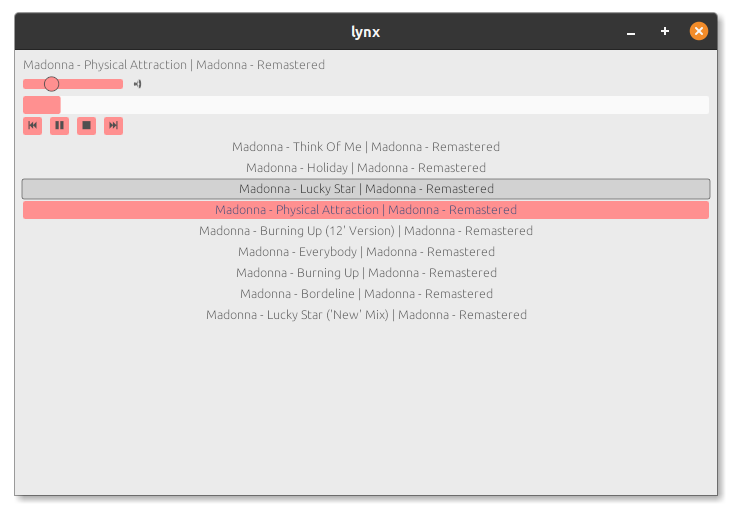
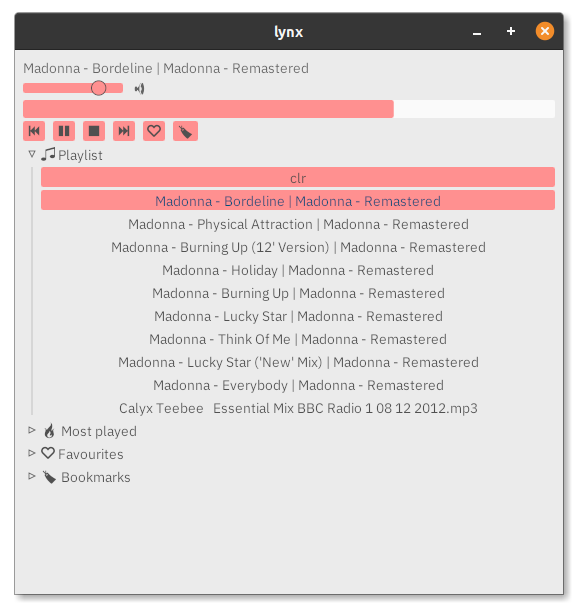
bookmarks now auto-play song if different

Changed region(s): [[0.0, 0.0, 0.9897, 0.9961]]

diff --git a/src/app.rs b/src/app.rs
@@ -336,9 +336,9 @@ fn playlist_ui(
         ui.vertical_centered_justified(|ui| {
             let mut drag_index: Option<usize> = None;
             let mut drop_index: Option<usize> = None;
-            // if ui.button("clr").clicked() {
-            //     queue.clear();
-            // }
+            if ui.button("clr").clicked() {
+                queue.clear();
+            }
             for (i, sound) in queue.clone().iter().enumerate() {
                 // the laylist entry widget
                 let pl_item = ui
@@ -350,8 +350,6 @@ fn playlist_ui(
                 }
 
                 if pl_item.double_clicked() {
-                    // update index to current
-                    // *queue_index = i;
                     play_as_active(active_sound, sound, manager, play_count);
                 }
 
@@ -403,10 +401,6 @@ fn playlist_ui(
                 if let (Some(drag), Some(drop)) = (drag_index, drop_index) {
                     let elem = queue.remove(drag);
                     queue.insert(drop, elem);
-                    // we changed order of the queue, let's update the index
-                    // if let Some(sound) = active_sound {
-                    //     *queue_index = queue.has_elem(sound).unwrap_or(0);
-                    // }
                 }
             }
         });
@@ -486,9 +480,25 @@ fn bookmark_ui(
         for s in bookmarks.iter() {
             ui.label(&s.name);
             ui.horizontal(|ui| {
-
                 for b in &s.bookmarks {
-                    ui.button(format!("{:.1}", b));
+                    if ui.button(format!("{:.1}", b)).clicked() {
+                        if let Some(active) = active_sound {
+                            //check if current sound is the one referenced in bookmark
+                            if active == s {
+                                if let Some(instancehandle) = active.instancehandle.as_mut() {
+                                    instancehandle.seek_to(*b);
+                                }
+                            } else {
+                                active.stop();
+                                *active = s.clone();
+                                active.soundhandle = active.load(manager).ok();
+                                active.play();
+                                if let Some(instancehandle) = active.instancehandle.as_mut() {
+                                    instancehandle.seek_to(*b);
+                                }
+                            }
+                        }
+                    }
                 }
             });
         }

diff --git a/README.md b/README.md
@@ -6,7 +6,10 @@ This is a for-fun minimal audio player. It's written as a challenge to replicate
 ![screenshot](screenshot.png)
 
 Features:
-- playlist
+- Playlist
+- Bookmarks within individual songs -  helpful to bookmark multiple individual audiobooks
+- Favourite list
+- Play count is recorded
 
 Formats supported:
 - wav
@@ -17,11 +20,11 @@ Formats supported:
 TODO:
 
 - [ ] Bookmark support for individual files (For multiple audiobooks)
-- [ ] Play count
-- [ ] Favorites
 - [ ] Themes
 - [ ] Preload next song 
 - [ ] Recursively add dropped folders
+- [X] Favorites
+- [X] Play count
 - [X] Auto-build for mac,win and linux
 - [X] Drag and drop files into window
 - [x] Scrub through songs
